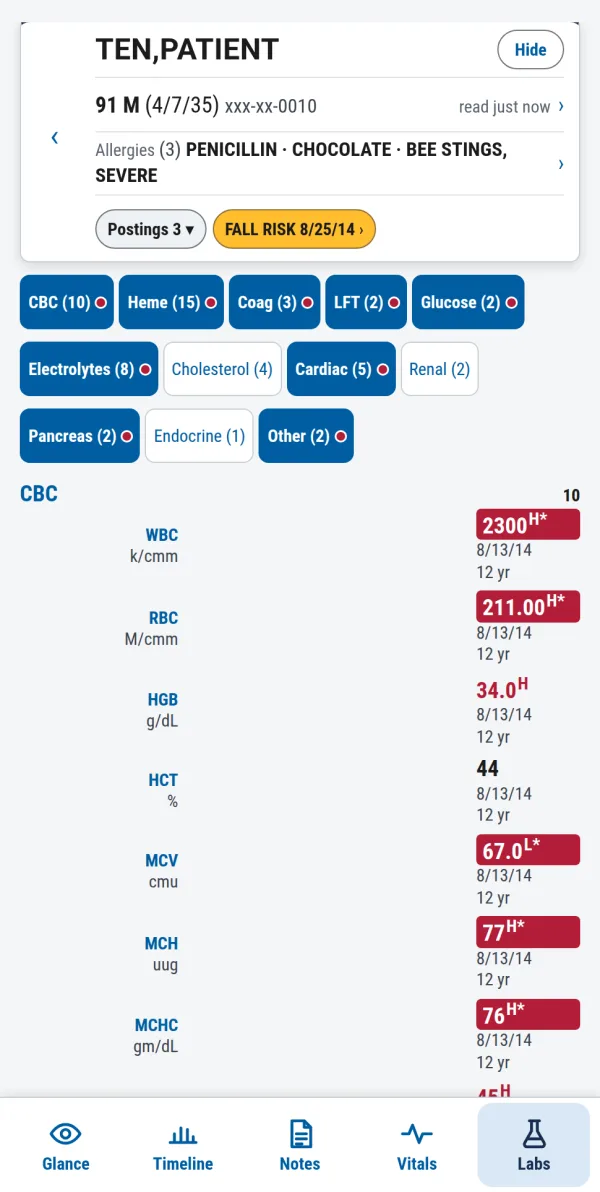
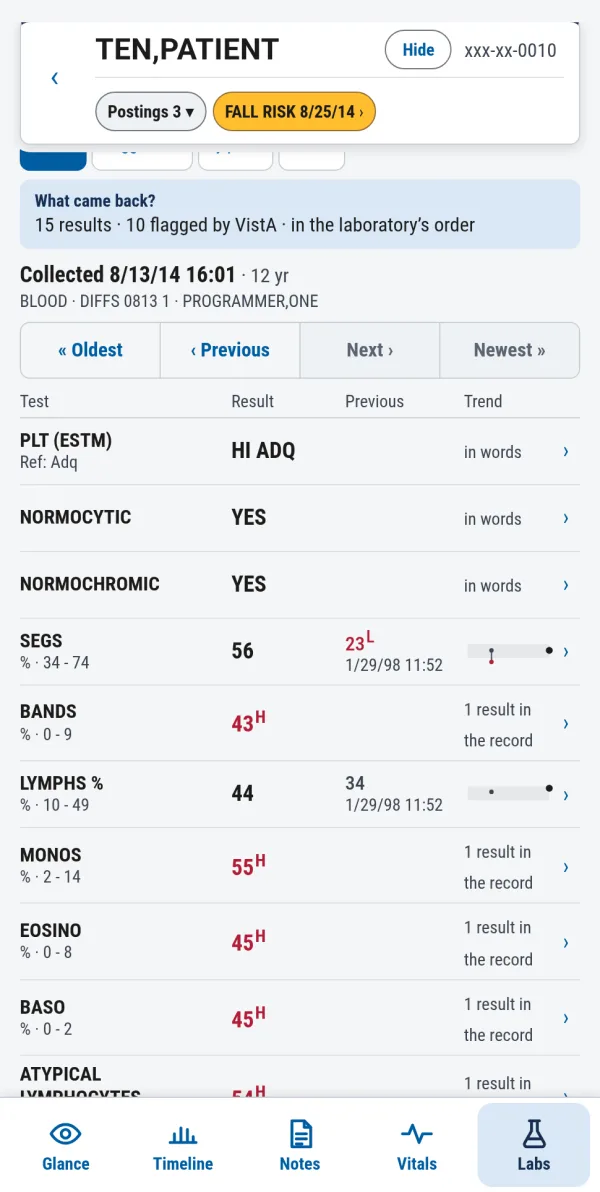
artifacts: Certo demo guide — the Vitals and Labs pages as rebuilt
The guide's Vitals and Labs sections described one graph a measure in a
window set on the Timeline. Both pages were rebuilt on 2026-10-04 (loupe
9ef72e4, 7fd8b67, aa8aaac): a range chip opening CPRS's own list, a line
that answers first, rows with the latest, its age, the previous and a
trend, Table and Outside limits, CPRS's Most Recent with Flagged, By panel,
Micro and a find, and each measure in depth. Rewritten to match, with six
new pictures of TEN,PATIENT taken on the throwaway copy (gold untouched),
and a note that the demo record's readings end in 2015, so All results.
The Timeline's day choice and two of the things to try updated with them;
the three pictures of the old pages removed.

diff --git a/artifacts/certo-demo/index.html b/artifacts/certo-demo/index.html
@@ -372,7 +372,7 @@ My phone is: iPhone / Android</p>
         <li><strong>Choose how much time to show</strong> with the row at the foot: <span class="ui">1W 1M 3M 1Y 5Y 10Y All</span>. It opens on five years. <strong>All</strong> shows the patient's whole life in VistA.</li>
         <li><strong>Move through time</strong> by swiping sideways on the lanes, by dragging the blue dot on the strip under the spans, or by tapping the counts at a lane's ends (<span class="ui">&lt; 39</span> means 39 earlier).</li>
         <li>Under each lane's name is how many it shows, of all (<span class="ui">56 of 95</span>). The small squares there open a key to the colours: a visit is coloured by kind, and a hollow square was cancelled or missed.</li>
-        <li><strong>Tap a square to choose that moment.</strong> Its notes light up on the Notes page, and the Vitals and Labs pages show that day's readings. Tap it again to let it go.</li>
+        <li><strong>Tap a square to choose that moment.</strong> Its notes light up on the Notes page. A day with vitals opens that day's readings in the Vitals table, and a lab day opens that day's collection on Labs. Tap it again to let it go.</li>
         <li>The ⓘ beside the strip shows these gestures again.</li>
       </ul>
     </div>
@@ -386,16 +386,18 @@ My phone is: iPhone / Android</p>
     <div class="body">
       <h3><span class="num">9</span>Vitals</h3>
       <ul>
-        <li>One graph a vital, on one time axis: BP, HR, RR, Temp, SpO2, Pain, Ht, Wt and BMI. At the right of each, the latest reading, its date and how long ago.</li>
-        <li>The grey band is your site's abnormal limits for that vital. A dashed frame means VistA stores no limits for it.</li>
-        <li><strong>Tap a graph</strong> to read every vital at that moment, in blue. Hold, then drag, to read along the graphs. Tap again to go back to the latest.</li>
-        <li>The graphs show the stretch of time chosen on the Timeline page. Swipe sideways to move through it. To show more or less time, change the spans on the Timeline page.</li>
-        <li>A day chosen on the timeline means that day here: a vital with no reading that day says <span class="ui">none on 1/30/08</span>.</li>
+        <li><strong>The range</strong> is the chip at the top right. It opens on <span class="ui">This stay</span> for an inpatient and <span class="ui">Six months</span> otherwise; tap it for CPRS's own list of ranges, or a date range of your own. The demo record's readings end in 2015, so <strong>choose All results</strong>.</li>
+        <li>A line answers <q>What are they now?</q>: when the latest set was taken and how long ago, how many sets the range holds, and how many readings were outside your site's limits.</li>
+        <li>One row a vital: BP, HR, RR, Temp, SpO2, Pain, Ht, Wt and BMI. Each gives the latest reading with its time and how long ago, a small trend over the range (the grey band is your site's abnormal limits), and the reading before it. Under a row, how the latest reading was taken, in VistA's words.</li>
+        <li>The chips at the foot change the view: <strong>Rows</strong>; <strong>Table</strong>, every set as a column, the newest beside the names (swipe the table sideways for earlier ones); and <strong>Outside limits</strong>, each reading outside your site's limits with the limit it crossed.</li>
+        <li><strong>Tap a row</strong> for that vital in depth: a graph with both axes, where a tap reads the reading under it; the latest, the previous, the highest and lowest in the range and how many were outside the limits, each saying how it was found when tapped; then every reading. The row of spans over the graph changes the range.</li>
+        <li>Certo arranges and counts VistA's readings and judges nothing: no arrows, no differences, no words like <q>rising</q>, and no vital in red, since VistA marks none.</li>
       </ul>
     </div>
     <div class="shots">
-      <figure class="shot"><img src="img/vitals.webp" width="600" height="1192" alt="Vitals over five years: nine small graphs with the latest reading, date and age at the right of each." loading="lazy"><figcaption>The latest of each.</figcaption></figure>
-      <figure class="shot"><img src="img/vitals-day.webp" width="600" height="1192" alt="Vitals over the whole record with a day chosen on the timeline: each graph's reading that day in blue, or none on 1/30/08." loading="lazy"><figcaption>A day chosen on the timeline.</figcaption></figure>
+      <figure class="shot"><img src="img/vitals-ranges.webp" width="600" height="1192" alt="Vitals with the range chip open: CPRS's list of ranges, Today to All results, then Date range, Six months ticked." loading="lazy"><figcaption>Choosing the range.</figcaption></figure>
+      <figure class="shot"><img src="img/vitals.webp" width="600" height="1192" alt="Vitals for All results: the line saying when the latest set was taken, 67 sets and 13 readings outside the limits, then a row a vital with its latest reading, a small trend and the previous reading." loading="lazy"><figcaption>All results: a row a vital.</figcaption></figure>
+      <figure class="shot"><img src="img/vital-depth.webp" width="600" height="1192" alt="Blood pressure in depth: the spans, a graph of every reading since 1999 with its values on the left, then the latest, previous, highest, lowest and how many were outside the limits, and every reading listed." loading="lazy"><figcaption>One vital in depth.</figcaption></figure>
     </div>
   </article>
 
@@ -403,16 +405,18 @@ My phone is: iPhone / Android</p>
     <div class="body">
       <h3><span class="num">10</span>Labs</h3>
       <ul>
-        <li>The tests are grouped into domains: CBC, Heme, Coag, LFT, Glucose, Electrolytes, Cholesterol, Cardiac, Renal and more. Tap a domain's chip to show or hide it; the number is how many tests it holds.</li>
-        <li>A <span class="flagged">red dot</span> on a chip means VistA flagged a latest result in that domain. Those domains open already shown.</li>
-        <li>Each test is a graph against the reference range stored with its results, the grey band, with its latest result, date and age at the right. A test with only one result in view is a single line.</li>
-        <li>As on Vitals: the graphs show the time chosen on the Timeline page, a tap reads a moment, and a day chosen on the timeline shows that day's results.</li>
-        <li>CPRS's own Recent Lab Results line for you is at the foot of the page.</li>
+        <li>It opens on <strong>Latest</strong>, CPRS's Most Recent: the newest collection, its tests in the laboratory's own order, VistA's flags in red. Each row gives the result, the result before it with its date, and a small trend against the stored reference range. Step through collections with <span class="ui">« Oldest</span> <span class="ui">‹ Previous</span> <span class="ui">Next ›</span> <span class="ui">Newest »</span>, as in CPRS.</li>
+        <li><strong>Flagged</strong> lists every result VistA flagged, newest first, by collection. <strong>By panel</strong> groups the tests (CBC, Electrolytes, Cholesterol and more), each with its latest result; a <span class="flagged">red dot</span> marks a panel whose latest result VistA flagged. <strong>Micro</strong> lists the cultures; tap one to read the laboratory's report.</li>
+        <li><strong>Find a test</strong> by typing part of its name as VistA names it, such as <span class="ui">chol</span>.</li>
+        <li><strong>Tap a test</strong> for it in depth, as on Vitals, with its reference range drawn and every result with its range and specimen.</li>
+        <li>The range chip sets the span the trends cover; for the demo record, <strong>choose All results</strong>.</li>
+        <li><strong>Active lab orders</strong>, at the top, opens the lab orders not yet complete, as CPRS's Orders tab lists them. CPRS's own Recent Lab Results line for you is at the foot.</li>
       </ul>
     </div>
     <div class="shots">
-      <figure class="shot"><img src="img/labs.webp" width="600" height="1192" alt="Labs: domain chips with counts and red dots, then CBC tests with their latest results; critical results in red boxes." loading="lazy"><figcaption>Domains, and the latest results.</figcaption></figure>
-      <figure class="shot"><img src="img/labs-day.webp" width="600" height="1192" alt="Labs over the whole record with 1/30/08 chosen: each CBC test's graph and its result that day." loading="lazy"><figcaption>Every result, a day chosen.</figcaption></figure>
+      <figure class="shot"><img src="img/labs.webp" width="600" height="1192" alt="Labs, Latest: 15 results, 10 flagged by VistA, collected 8/13/14, the step buttons, then each test with its result, the previous result and a small trend." loading="lazy"><figcaption>The latest collection.</figcaption></figure>
+      <figure class="shot"><img src="img/lab-depth.webp" width="600" height="1192" alt="SEGS in depth: its results since 1998 against the reference range, the latest and previous, highest and lowest, how many VistA flagged, and every result." loading="lazy"><figcaption>One test in depth.</figcaption></figure>
+      <figure class="shot"><img src="img/labs-flagged.webp" width="600" height="1192" alt="Labs, Flagged: 110 flagged results in the record, newest first, grouped by collection with how many were flagged of how many." loading="lazy"><figcaption>Everything VistA flagged.</figcaption></figure>
     </div>
   </article>
 
@@ -463,9 +467,9 @@ My phone is: iPhone / Android</p>
   <h2 id="try-h">Five things to try</h2>
   <ol class="tries">
     <li><strong>A lifetime on one screen.</strong> Open TEN,PATIENT, go to Timeline and tap <strong>All</strong>. Visits, notes, vitals and labs from 1988 on.</li>
-    <li><strong>One day, every page.</strong> On the timeline, tap a lab day around 2008. Go to Labs, then Vitals: each shows that day.</li>
+    <li><strong>One day, its collection.</strong> On the timeline, tap <strong>All</strong>, then a lab day around 2008. Go to Labs: it shows that day's collection, and <span class="ui">‹ Previous</span> and <span class="ui">Next ›</span> step from there.</li>
     <li><strong>Find a note.</strong> On Notes, type <span class="ui">discharge</span>. Then switch <strong>Titles ▾</strong> to the notes' text and search for a word such as <span class="ui">cardiology</span>.</li>
-    <li><strong>What is abnormal now.</strong> On the glance, read the Latest labs line, then tap it: the flagged domains on Labs are already open.</li>
+    <li><strong>What VistA flagged.</strong> On Labs, tap <strong>Flagged</strong>: every flagged result, newest first. Tap one to see its history.</li>
     <li><strong>The safety habits.</strong> Tap Hide; leave the app and come back; go back to Patient Search and open another patient.</li>
   </ol>
 </section>
